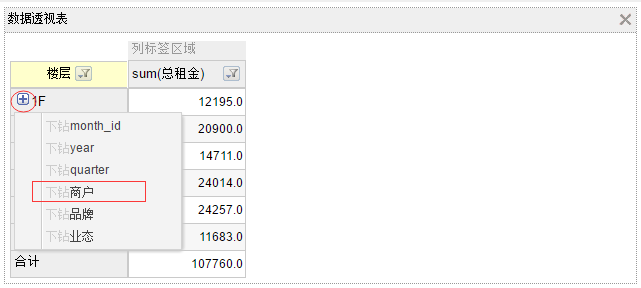
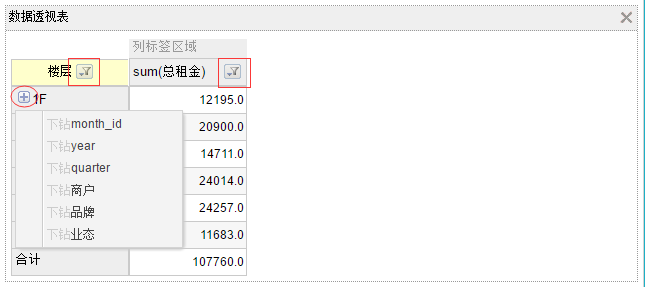
Updates 透视表.md
Auto commit by GitBook Editor

Changed region(s): [[0.0, 0.0, 1.0, 1.0], [0.2808, 0.6132, 0.4056, 0.8362]]

diff --git a/透视表.md b/透视表.md
@@ -8,5 +8,5 @@
 
 ![](/assets/import503.png)
 
-3.点击**+号**实现维度扩展。
+3.点击**+号**实现维度扩展，点击**方块菜单**实现拖入字段的删除、排序等设置。
 
